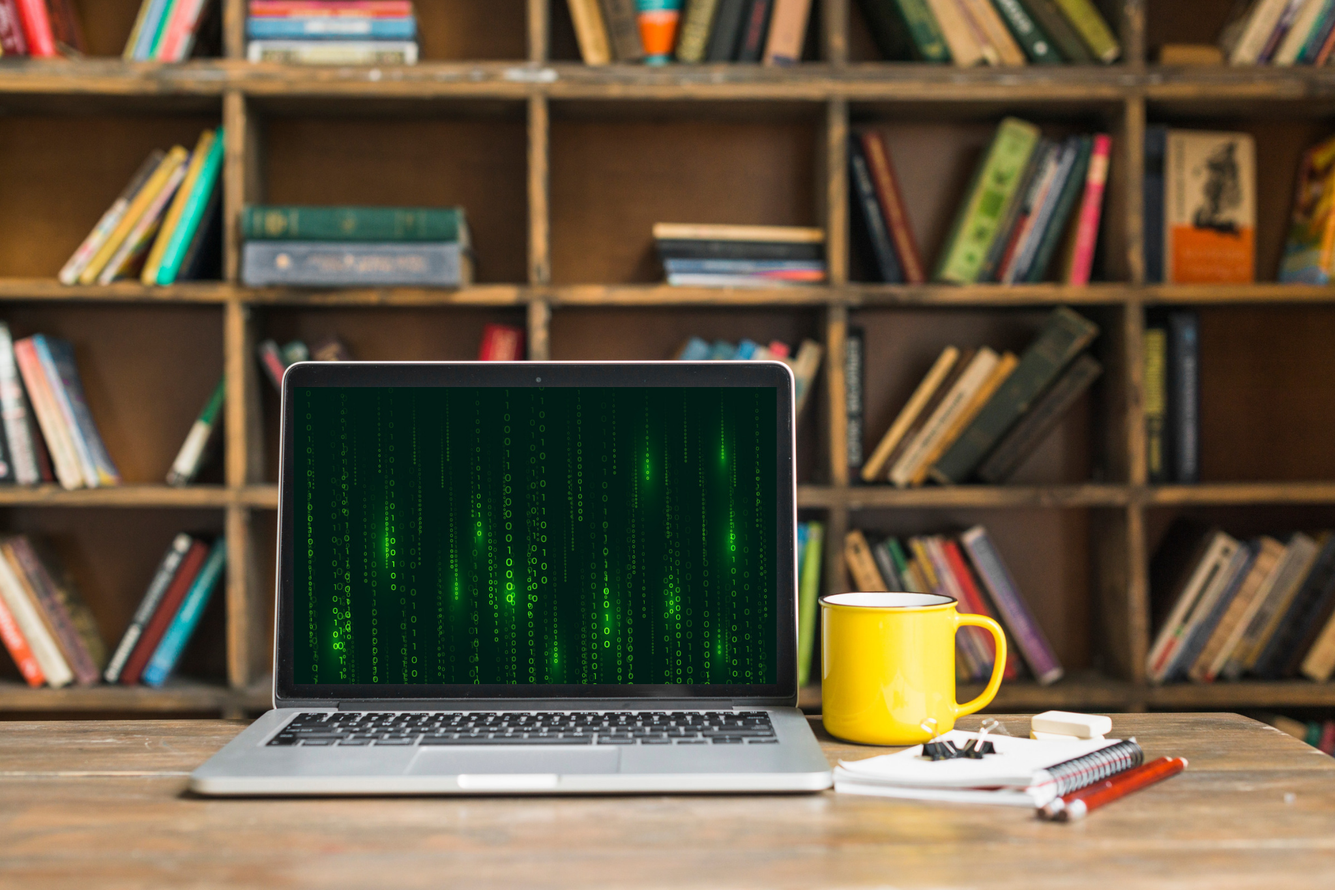
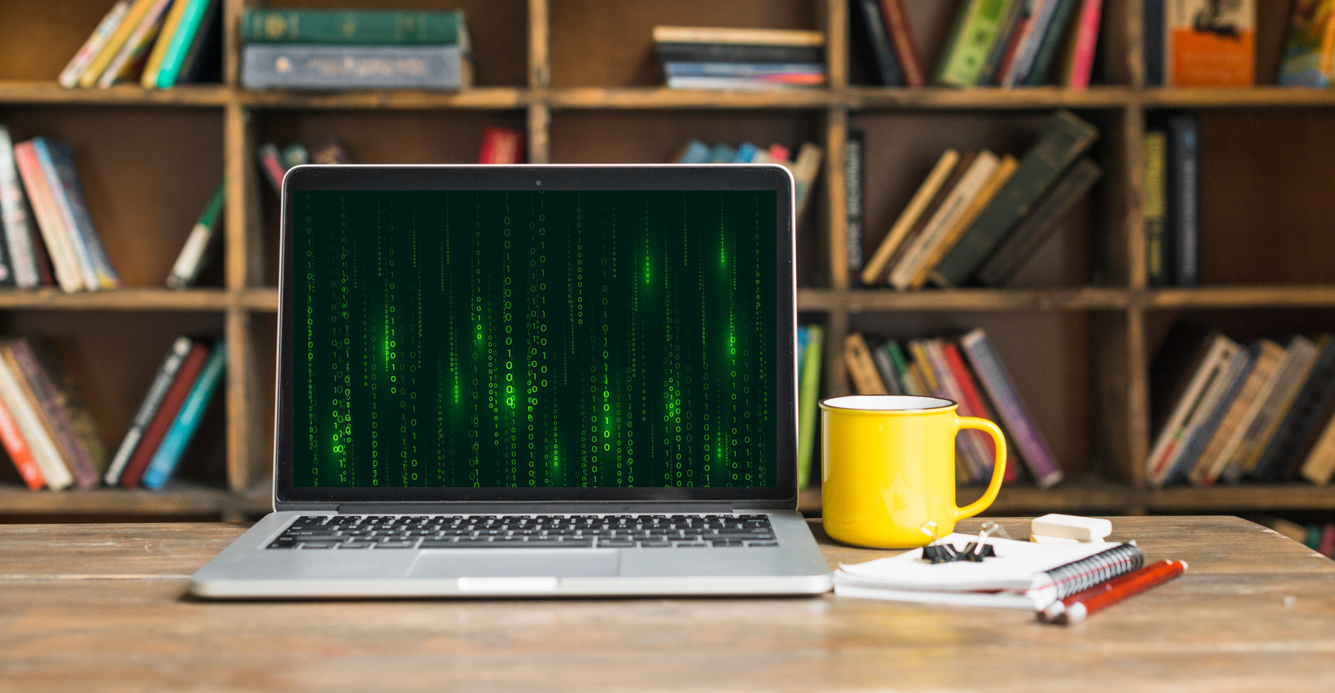
updated background pic and other minor changes

diff --git a/index.html b/index.html
@@ -305,7 +305,7 @@
           </div>
         </div>
 
-        <div id="professional_menu" class="skill_prof">
+        <div id="professional_menu" class="skill_prof" style="display: none;">
           <div class="skill_details">
             <i id="left" class="bx bx-chevron-left"></i>
             <ul class="carousel">

diff --git a/CSS/style.css b/CSS/style.css
@@ -394,6 +394,7 @@ section {
 }
 
 .skill_tech {
+    display: flex;
     padding: 0 35px;
     align-items: center;
     justify-content: center;
@@ -404,6 +405,7 @@ section {
 }
 
 .skill_prof {
+    display: flex;
     padding: 0 35px;
     align-items: center;
     justify-content: center;
